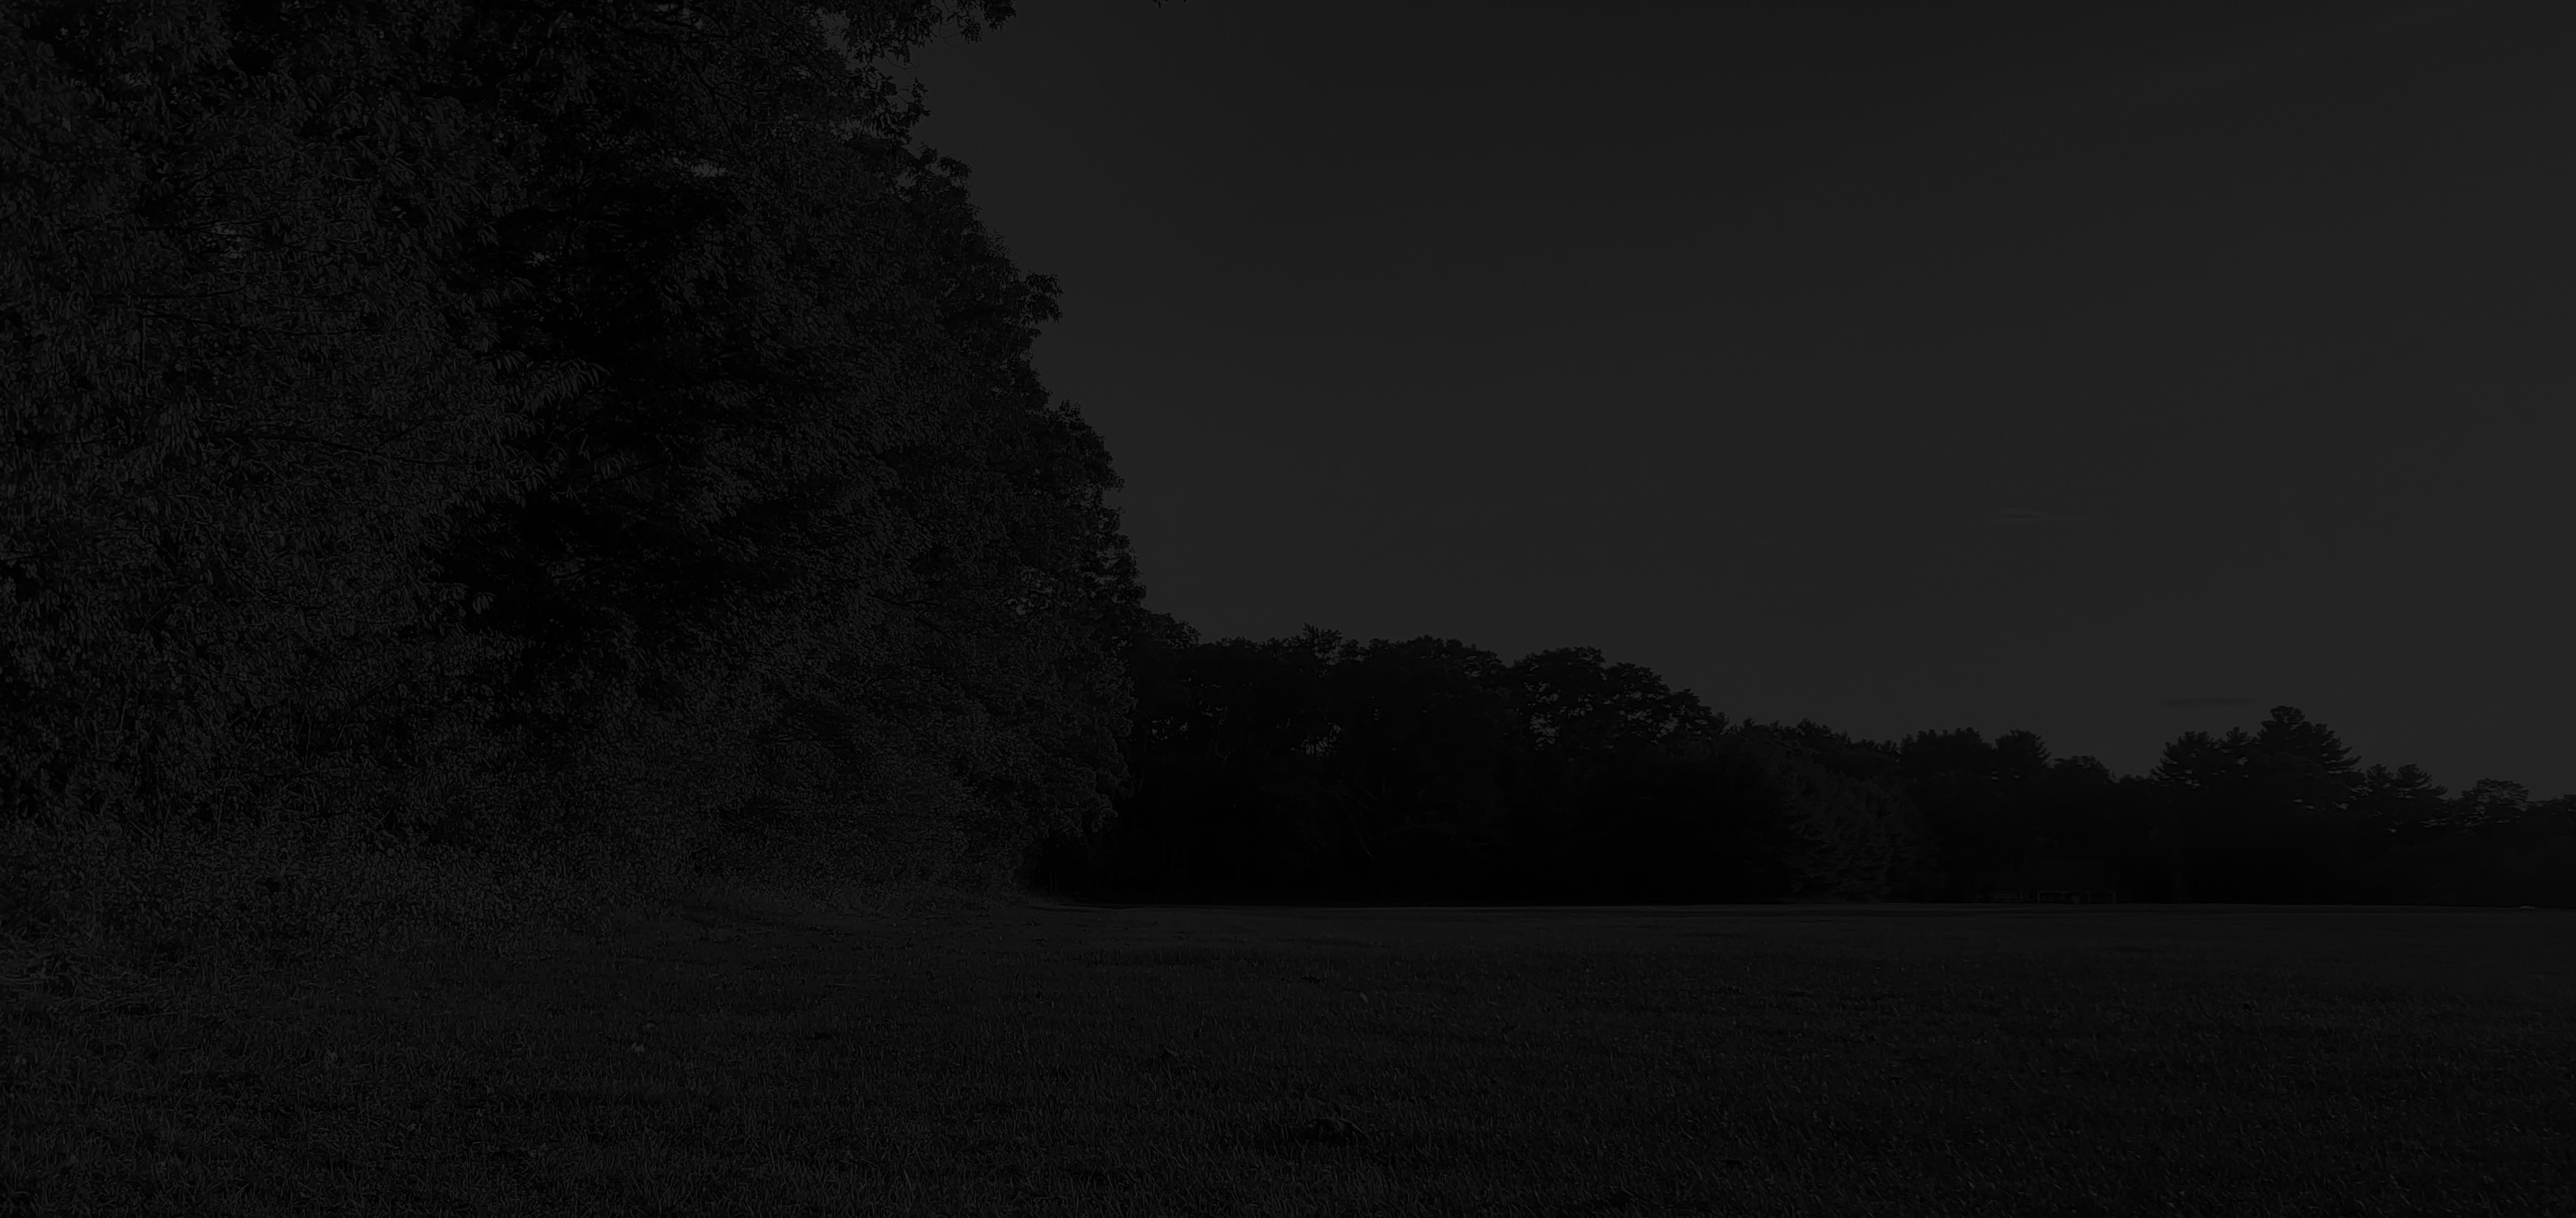
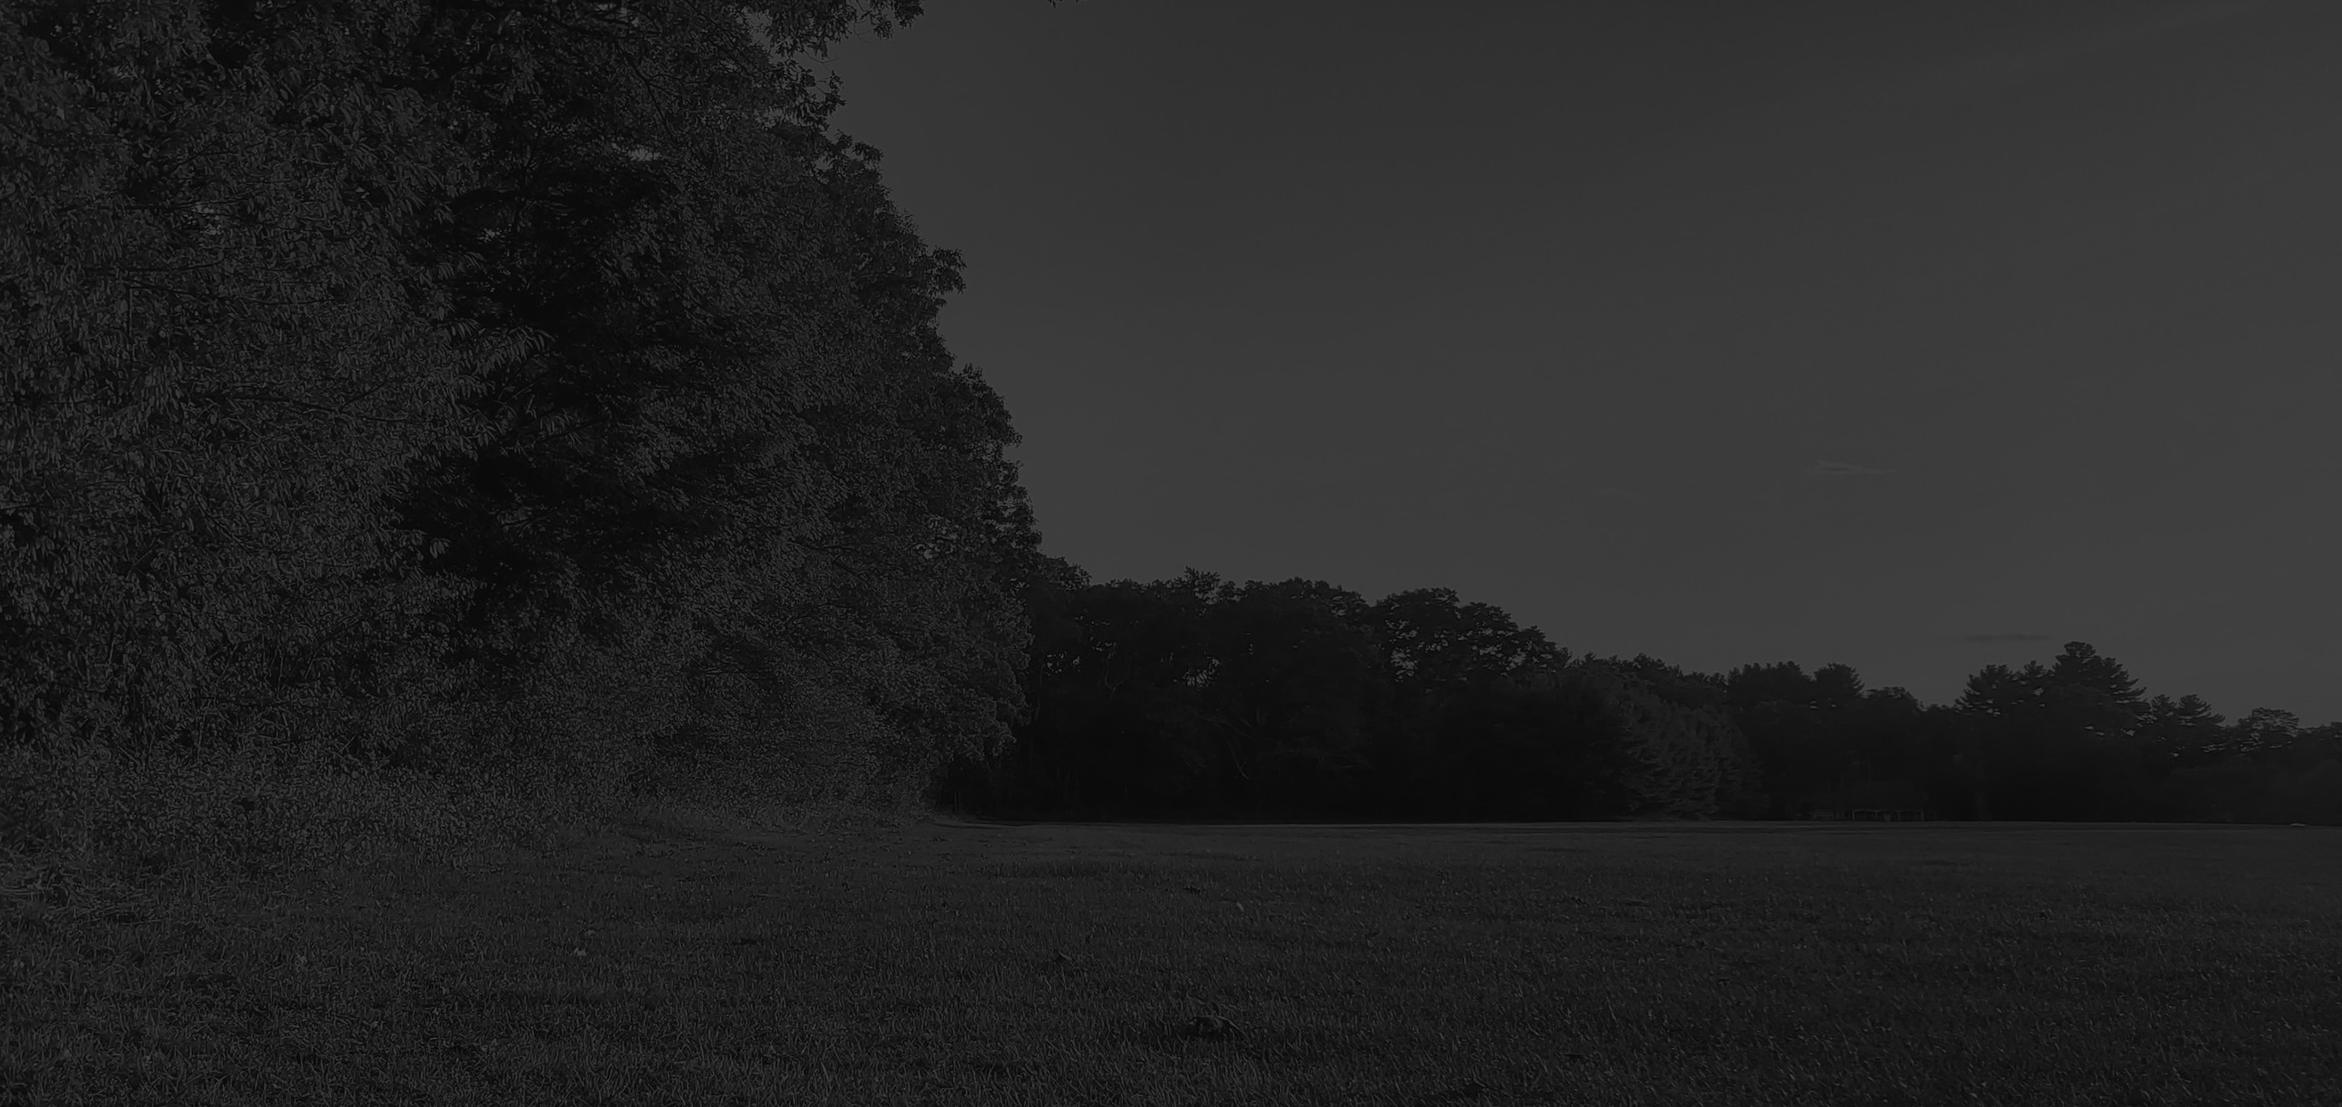
breaking, fixing, and breaking again

diff --git a/index.html b/index.html
@@ -15,13 +15,34 @@
   <body>
 
     <!-- HEADER -->
-    <header>
-      <div class="grid-x align-middle">
-        <div class="cell medium-3">
-          <img src="img/logo.svg" alt="Massachusetts Historic Hauntings" class="logo">
+      <header>
+        <div class="grid-container">
+          <div class="grid-x align-middle">
+            
+            <div class="cell medium-3">
+              <img src="img/logo.svg" alt="Massachusetts Historic Hauntings" class="logo">
+            </div>
+
+            <div class="cell medium-8 medium-offset-1">
+              <ul class="menu mainmenu">
+                <li><a href="#rehobothvillage">1643</a></li>
+                <li><a href="#anawanrock">1676</a></li>
+                <li><a href="#gilescorey">1692</a></li>
+                <li><a href="#oldyarmouthinn">1696</a></li>
+                <li><a href="#bostonlight">1716</a></li>
+                <li><a href="#stormbreeder">1770</a></li>
+                <li><a href="#darkday">1780</a></li>
+                <li><a href="#shadfactory">1810</a></li>
+                <li><a href="#hornbine">1845</a></li>
+                <li><a href="#omniparker">1855</a></li>
+                <li><a href="#lizzieborden">1892</a></li>
+                <li><a href="#hawthornehotel">1925</a></li>
+              </ul>
+            </div>
+
+          </div>
         </div>
-      </div>
-    </header>
+      </header>
 
 
 
@@ -35,32 +56,6 @@
         </div>
       </div>
     </section>
-
-
-    <!-- TABS -->
-      <!-- link to professor's codepen: https://codepen.io/druryjeff/pen/GRKYbEO -->
-    <nav>
-      <div class="grid-container">
-        <div class="grid-x">
-          <div class="cell">
-            <ul class="menu mainmenu">
-              <li><a href="#rehobothvillage">1643</a></li>
-              <li><a href="#anawanrock">1676</a></li>
-              <li><a href="#gilescorey">1692</a></li>
-              <li><a href="#oldyarmouthinn">1696</a></li>
-              <li><a href="#bostonlight">1716</a></li>
-              <li><a href="#stormbreeder">1770</a></li>
-              <li><a href="#darkday">1780</a></li>
-              <li><a href="#shadfactory">1810</a></li>
-              <li><a href="#hornbine">1845</a></li>
-              <li><a href="#omniparker">1855</a></li>
-              <li><a href="#lizzieborden">1892</a></li>
-              <li><a href="#hawthornehotel">1925</a></li>
-            </ul>
-          </div>
-        </div>
-      </div>
-    </nav>
 
     <main>
       
@@ -246,14 +241,16 @@
         </div>
       </article>
 
+
+
+      <!-- FOOTER -->
+      <footer>
+        <p>(c) Massachusetts Historic Hauntings</p>
+      </footer>
+
+      <div class="overlay"></div>
+
     </main>
-
-
-
-    <!-- FOOTER -->
-    <footer>
-      <p>(c) Massachusetts Historic Hauntings</p>
-    </footer>
 
     <script src="js/vendor/jquery.js"></script>
     <script src="js/vendor/what-input.js"></script>

diff --git a/css/app.css b/css/app.css
@@ -1,1 +1,1 @@
-header{background-color:#212121;padding:1rem}.logo:hover{cursor:pointer}nav{background-color:#212121}@media screen and (min-width: 40em){nav{position:fixed;bottom:0;left:0;width:100%}}h1,h2{font-family:'Beth Ellen', cursive}h2{padding-bottom:1rem}p{font-family:'Cardo', serif}main{background-image:url("../img/bg1.jpg")}.intro{position:fixed;width:100%;height:100vh;background-color:#424242}
+header,footer{background-color:#212121;padding:1rem}.logo{position:relative;top:5px}.logo:hover{cursor:pointer}.mainmenu li{margin:0}h1{font-family:'Beth Ellen', cursive;margin-bottom:0rem;color:#efefef}h2{font-family:'Cardo', serif;font-weight:700;padding-bottom:.5rem;color:#efefef}p{font-family:'Cardo', serif;color:#efefef}.menu{justify-content:flex-end}.menu li a{padding:.5rem;font-family:'Cardo', serif;font-size:1.2rem;color:#efefef}.menu li a:hover{color:#a31b1b}.menu li a:focus{color:#a31b1b;font-weight:700;font-size:1.5rem}main{background-image:url("../img/bg2.jpg");background-position:center;background-position:bottom;padding-top:1.5rem}main h1,main h2{opacity:0}main h1{animation-name:flicker;animation-duration:1s;animation-iteration-count:infinite;animation-direction:alternate;aniamtion-timing-function:cubic-bezier(0.17, 0.67, 1, -0.1);opacity:0}main h2{animation-name:flicker;animation-duration:5s;animation-iteration-count:infinite;animation-direction:alternate;aniamtion-timing-function:cubic-bezier(0.17, 0.67, 1, -0.1);opacity:0}::selection{background:red}::-moz-selection{background:red}.overlay{width:100%;height:100vh;position:fixed;top:95px;left:0;background-color:black;z-index:1;opacity:0}.flickr{animation-name:flicker;animation-duration:15s;aniamtion-timing-function:cubic-bezier(0.17, 0.67, 1, -0.1);opacity:0}@keyframes flicker{0%{opacity:0}100%{opacity:1}}.intro{position:fixed;width:100%;height:100vh;background-color:#424242}

diff --git a/scss/_timeline-item.scss b/scss/_timeline-item.scss
@@ -1,5 +1,70 @@
 /* MAIN CONTENT */
 
 main {
-	background-image: url("../img/bg1.jpg");
+	background-image: url("../img/bg2.jpg");
+	background-position: center;
+	background-position: bottom;
+	padding-top: 1.5rem;
+
+	h1, h2 {
+		opacity: 0;
+	}
+
+	h1 {
+		animation-name: flicker;
+		animation-duration: 1s;
+		animation-iteration-count: infinite;
+		animation-direction: alternate;
+		aniamtion-timing-function: cubic-bezier(.17,.67,1,-0.1);
+		opacity: 0;
+	}
+
+	h2 {
+		animation-name: flicker;
+		animation-duration: 5s;
+		animation-iteration-count: infinite;
+		animation-direction: alternate;
+		aniamtion-timing-function: cubic-bezier(.17,.67,1,-0.1);
+		opacity: 0;
+	}
 }
+
+
+::selection {
+  background: red; /* WebKit/Blink Browsers */
+}
+::-moz-selection {
+  background: red; /* Gecko Browsers */
+}
+
+.overlay {
+	width: 100%;
+	height: 100vh;
+	position: fixed;
+	top: 95px;
+	left: 0;
+	background-color: black;
+	z-index: 1;
+	opacity: 0;
+
+}
+
+.flickr {
+	animation-name: flicker;
+	animation-duration: 15s;
+	aniamtion-timing-function: cubic-bezier(.17,.67,1,-0.1);
+	opacity: 0;
+}
+
+@keyframes flicker {
+  0% { opacity: 0; }
+  // 15% { opacity: 1; }
+  // 16% { opacity: .1; }
+  // 17% { opacity: .7; }
+  // 19% { opacity: .3; }
+  // 35% { opacity: .5; }
+  // 50% { opacity: 0; }
+  // 70% { opacity: .7; }
+  100% { opacity: 1; }
+}
+

diff --git a/scss/_type.scss b/scss/_type.scss
@@ -5,14 +5,41 @@
     font-family: 'Cardo', serif;
  */
 
-h1, h2 {
+h1 {
 	font-family: 'Beth Ellen', cursive;
+	margin-bottom: 0rem;
+	color: #efefef;
 }
 
 h2 {
-	padding-bottom: 1rem;
+	font-family: 'Cardo', serif;
+	font-weight: 700;
+	padding-bottom: .5rem;
+	color: #efefef;
 }
 
 p {
 	font-family: 'Cardo', serif;
+	color: #efefef;
+}
+
+.menu {
+	justify-content: flex-end;
+}
+
+.menu li a {
+	padding: .5rem;
+	font-family: 'Cardo', serif;
+	font-size: 1.2rem;
+	color: #efefef;
+}
+
+.menu li a:hover {
+	color: #a31b1b;
+}
+
+.menu li a:focus {
+	color: #a31b1b;
+	font-weight: 700;
+	font-size: 1.5rem;
 }

diff --git a/js/app.js b/js/app.js
@@ -5,6 +5,8 @@ $('.panel').hide();
 
 // handle clicks on the main navigation
 $('.mainmenu a').click(function(e){
+  // remove flickr only to add it again later
+  $('main h1,main h2').removeClass('flickr');
   // don't do the default action (jump to a linked section of the page)
   e.preventDefault();
   // hide the intro
@@ -15,6 +17,9 @@ $('.mainmenu a').click(function(e){
   $('.panel').hide();
   // show the selected panel
   $(curr).show();
+  // add class to overlay to flickr transition
+  $('main h1,main h2').addClass('flickr');
+
   console.log(curr);
 });
 

diff --git a/scss/_header.scss b/scss/_header.scss
@@ -1,23 +1,19 @@
 /* HEADER & FOOTER -- WHERE TIMELINE STUFF IS */
 
-header {
+header, footer {
 	background-color: #212121;
 	padding: 1rem;
+}
+
+.logo {
+	position: relative;
+	top: 5px;
 }
 
 .logo:hover {
 	cursor: pointer;
 }
 
-
-
-nav {
-	background-color: #212121;
-
-	@media screen and (min-width: 40em) {
-		position: fixed;
-		bottom: 0;
-		left: 0;
-		width: 100%;
-	}
+.mainmenu li {
+	margin: 0;
 }
